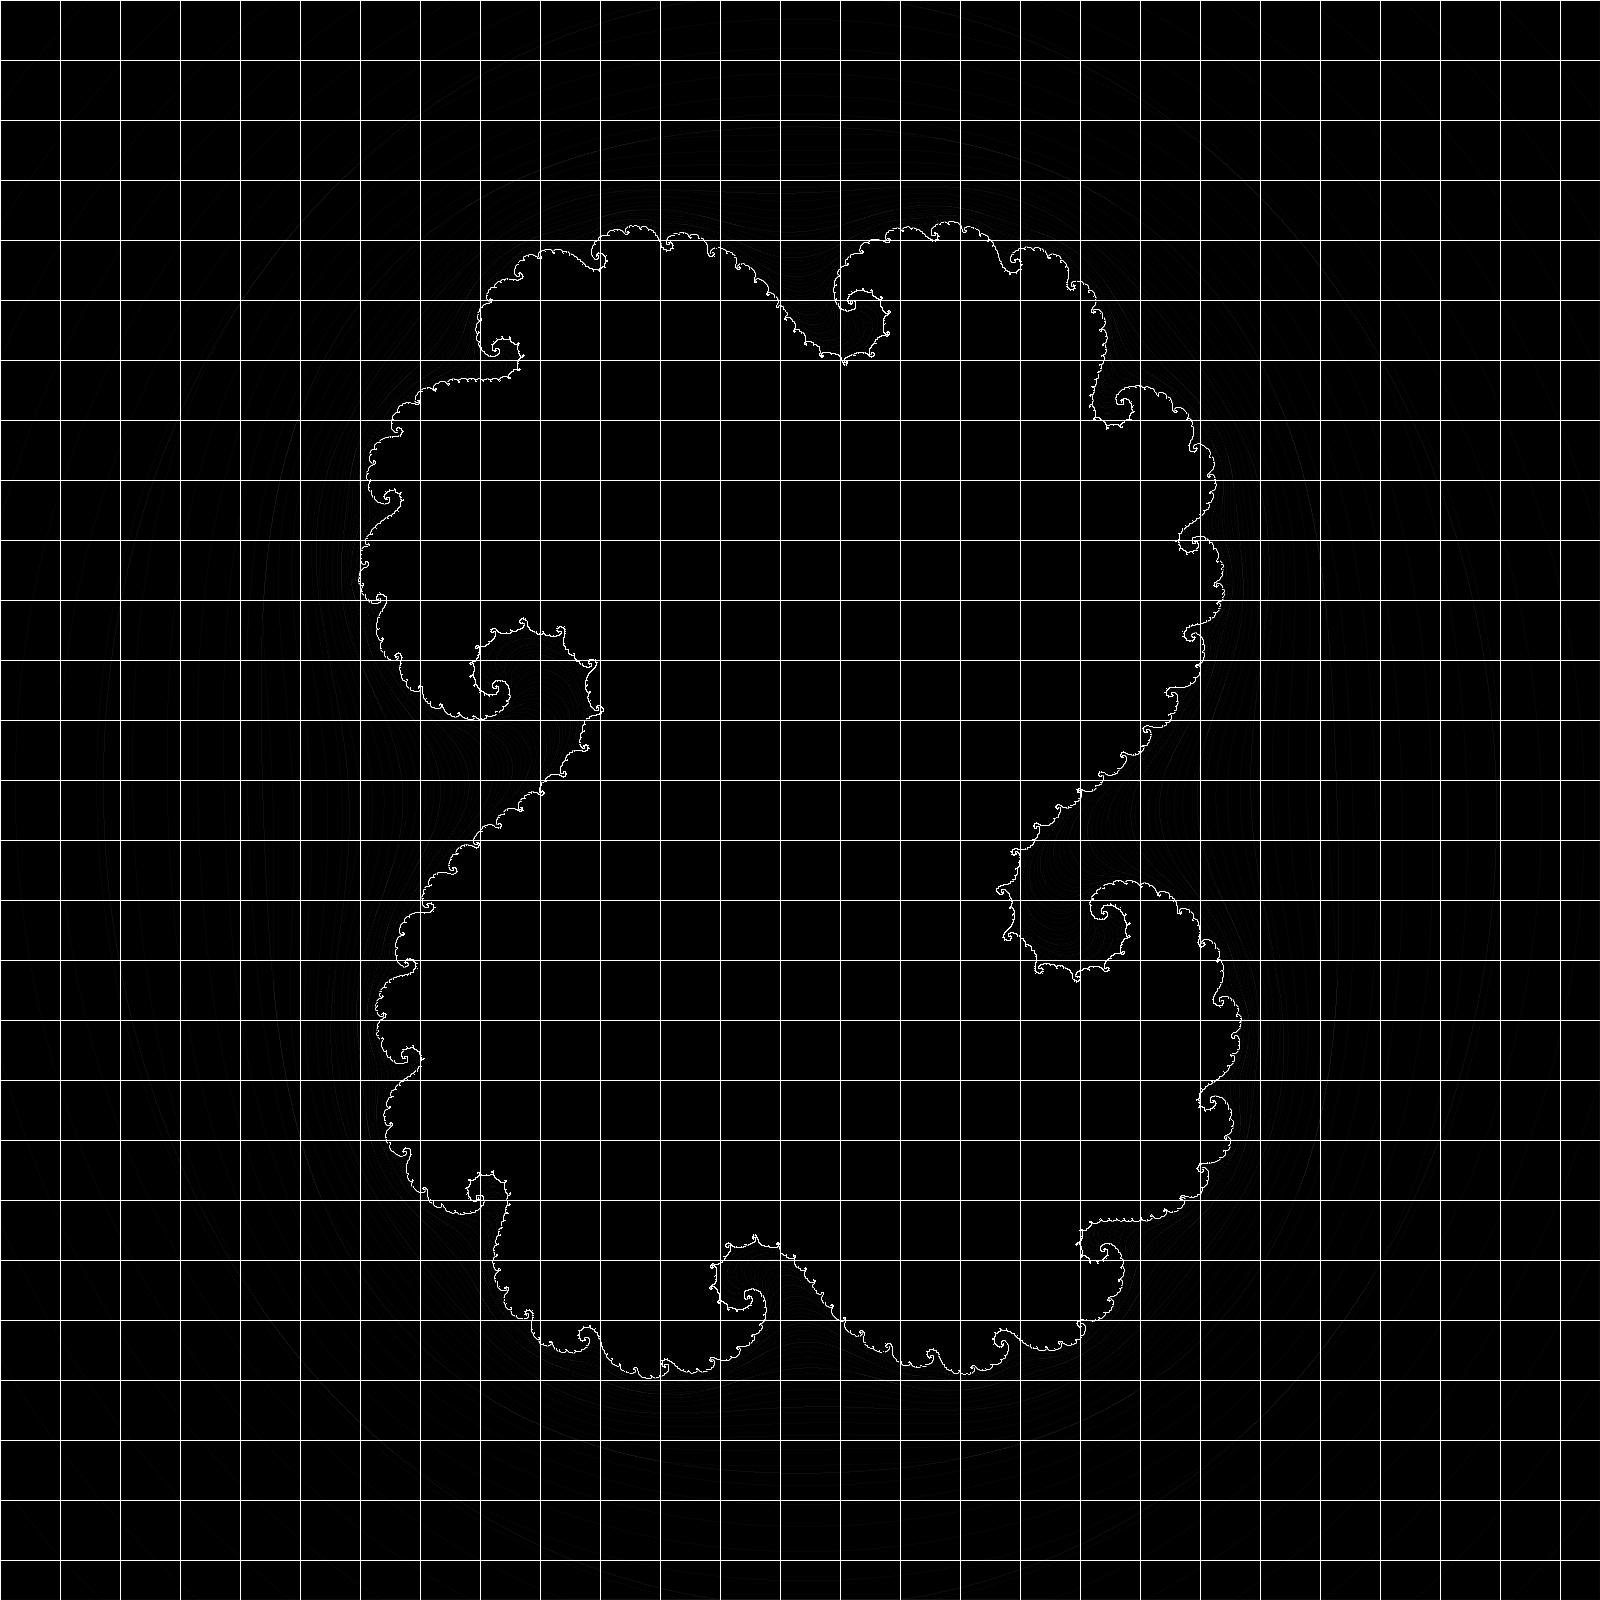
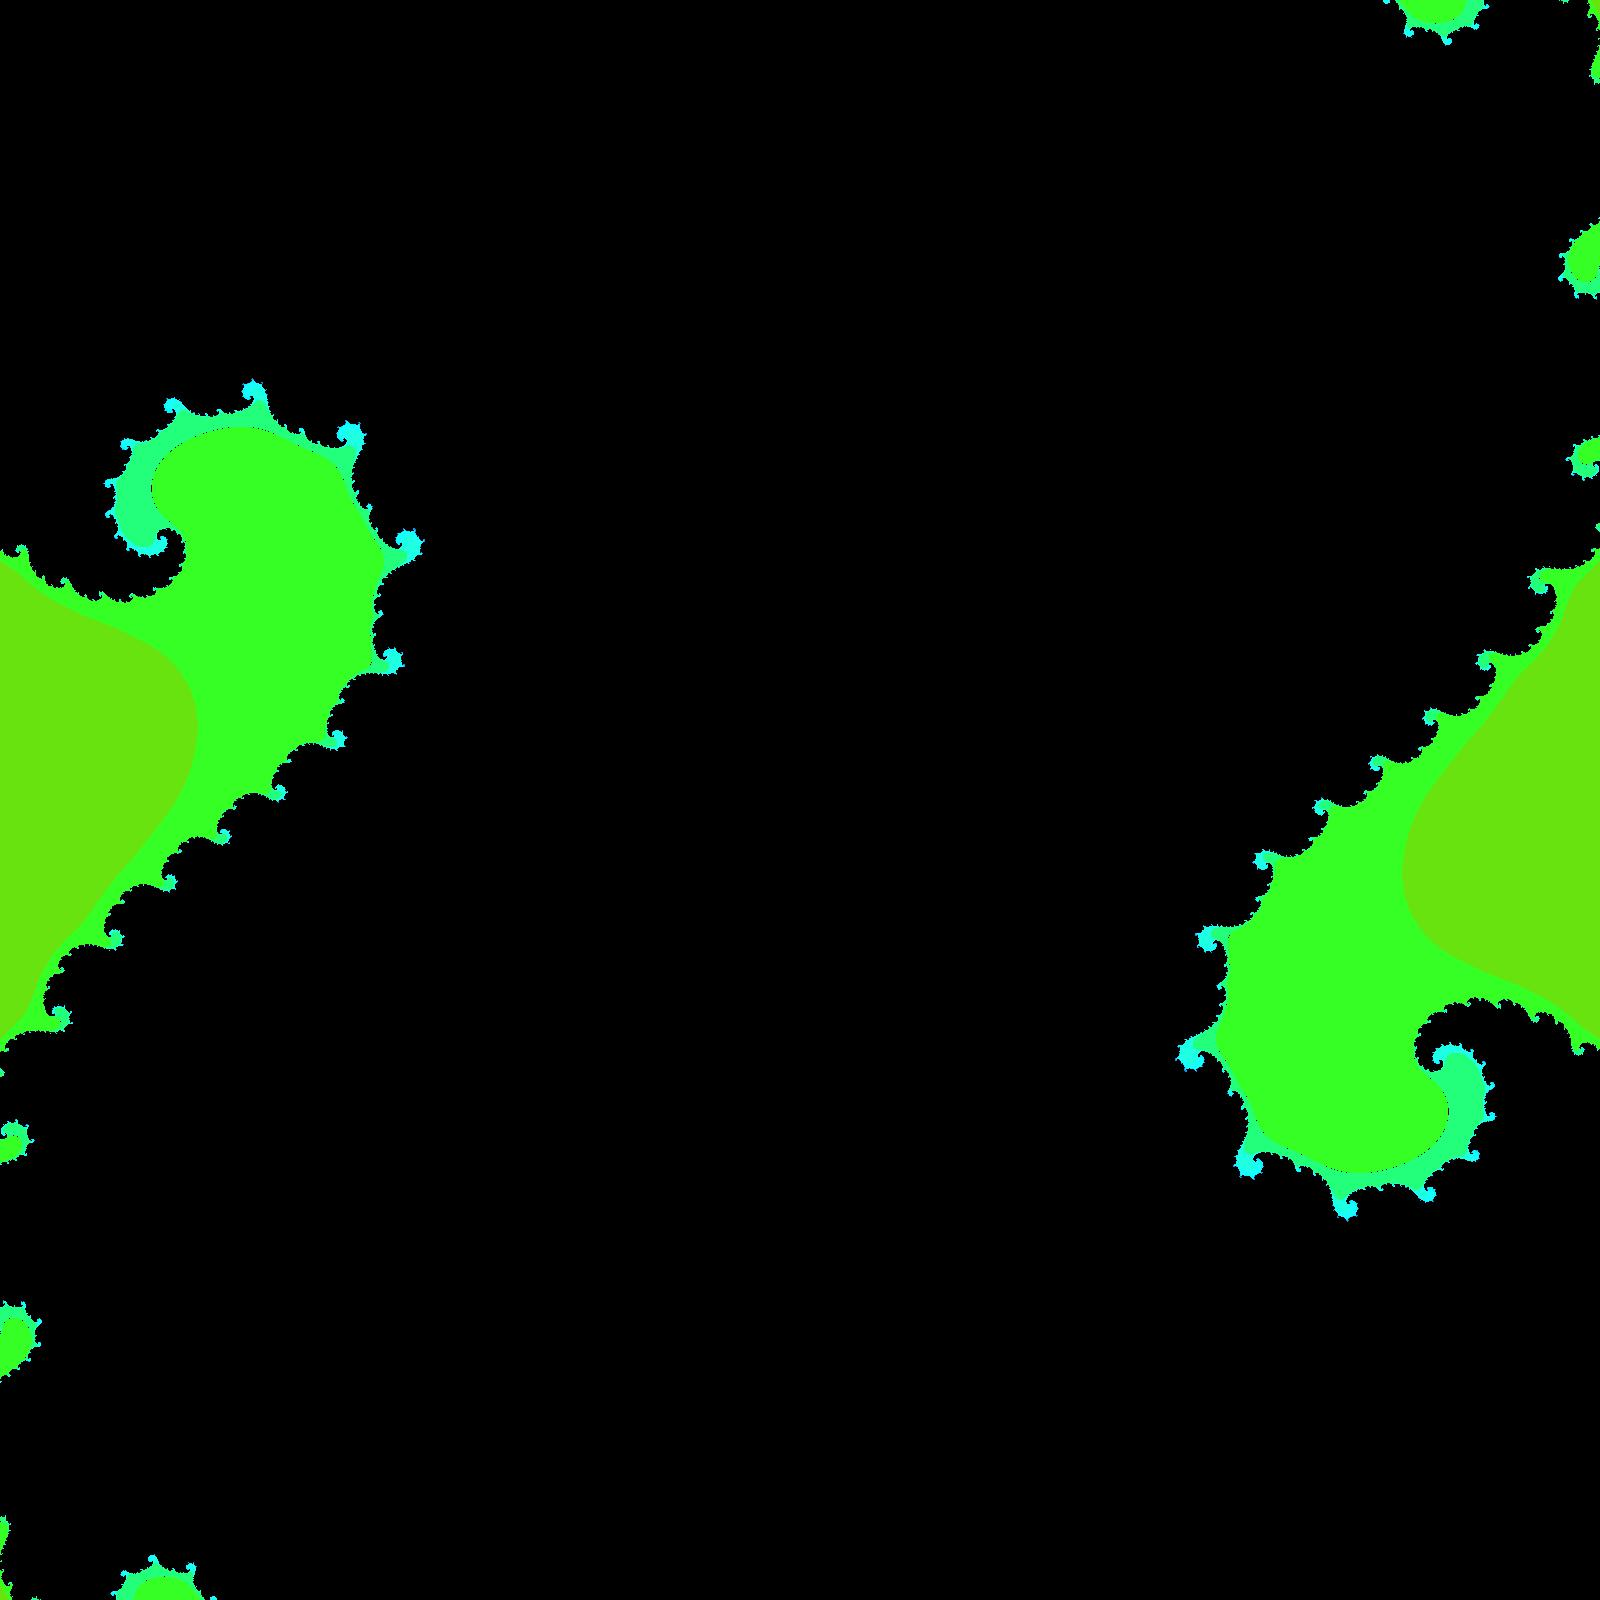
update

diff --git a/julia_render.py b/julia_render.py
@@ -1,12 +1,12 @@
 import numpy as np
-from PIL import Image, ImageFilter, ImageEnhance, ImageDraw
+from PIL import Image, ImageFilter, ImageEnhance, ImageOps
 from matplotlib.colors import hsv_to_rgb
 
 width, height = 1600, 1600
-x_range = (-1.5, 1.5)
-y_range = (-1.5, 1.5)
-c = complex(0.29, -0.03)
-max_iter = 350
+x_range = (-0.73, 0.73)
+y_range = (-0.73, 0.73)
+c = complex(0.3, -0.04)
+max_iter = 320
 
 x = np.linspace(x_range[0], x_range[1], width)
 y = np.linspace(y_range[0], y_range[1], height)
@@ -27,26 +27,16 @@ with np.errstate(divide='ignore', invalid='ignore'):
 smooth_norm = (smooth - smooth.min()) / (smooth.max() - smooth.min())
 
 hsv = np.zeros((height, width, 3), dtype=float)
-hsv[..., 0] = 0.0
-hsv[..., 1] = 0.0
-hsv[..., 2] = smooth_norm ** 0.8
+hsv[..., 0] = (0.7 * smooth_norm + 0.2) % 1
+hsv[..., 1] = 0.95 - 0.1 * np.abs(np.sin(2 * np.pi * smooth_norm))
+hsv[..., 2] = smooth_norm ** 0.2
 
 rgb = (hsv_to_rgb(hsv) * 255).astype(np.uint8)
 img = Image.fromarray(rgb)
 
-img = img.filter(ImageFilter.FIND_EDGES)
-img = ImageEnhance.Contrast(img).enhance(2.5)
-
-# Grid overlay
-def add_grid(im, step=50):
-    draw = ImageDraw.Draw(im)
-    for x in range(0, im.width, step):
-        draw.line((x, 0, x, im.height), fill=(255,255,255,80), width=1)
-    for y in range(0, im.height, step):
-        draw.line((0, y, im.width, y), fill=(255,255,255,80), width=1)
-    return im
-
-img = add_grid(img, step=60)
+img = img.quantize(colors=8, method=2)
+img = img.convert('RGB')
+enhanced = ImageEnhance.Contrast(img).enhance(1.5)
 
 output_path = 'julia_output.jpg'
-img.save(output_path) 
+enhanced.save(output_path) 
